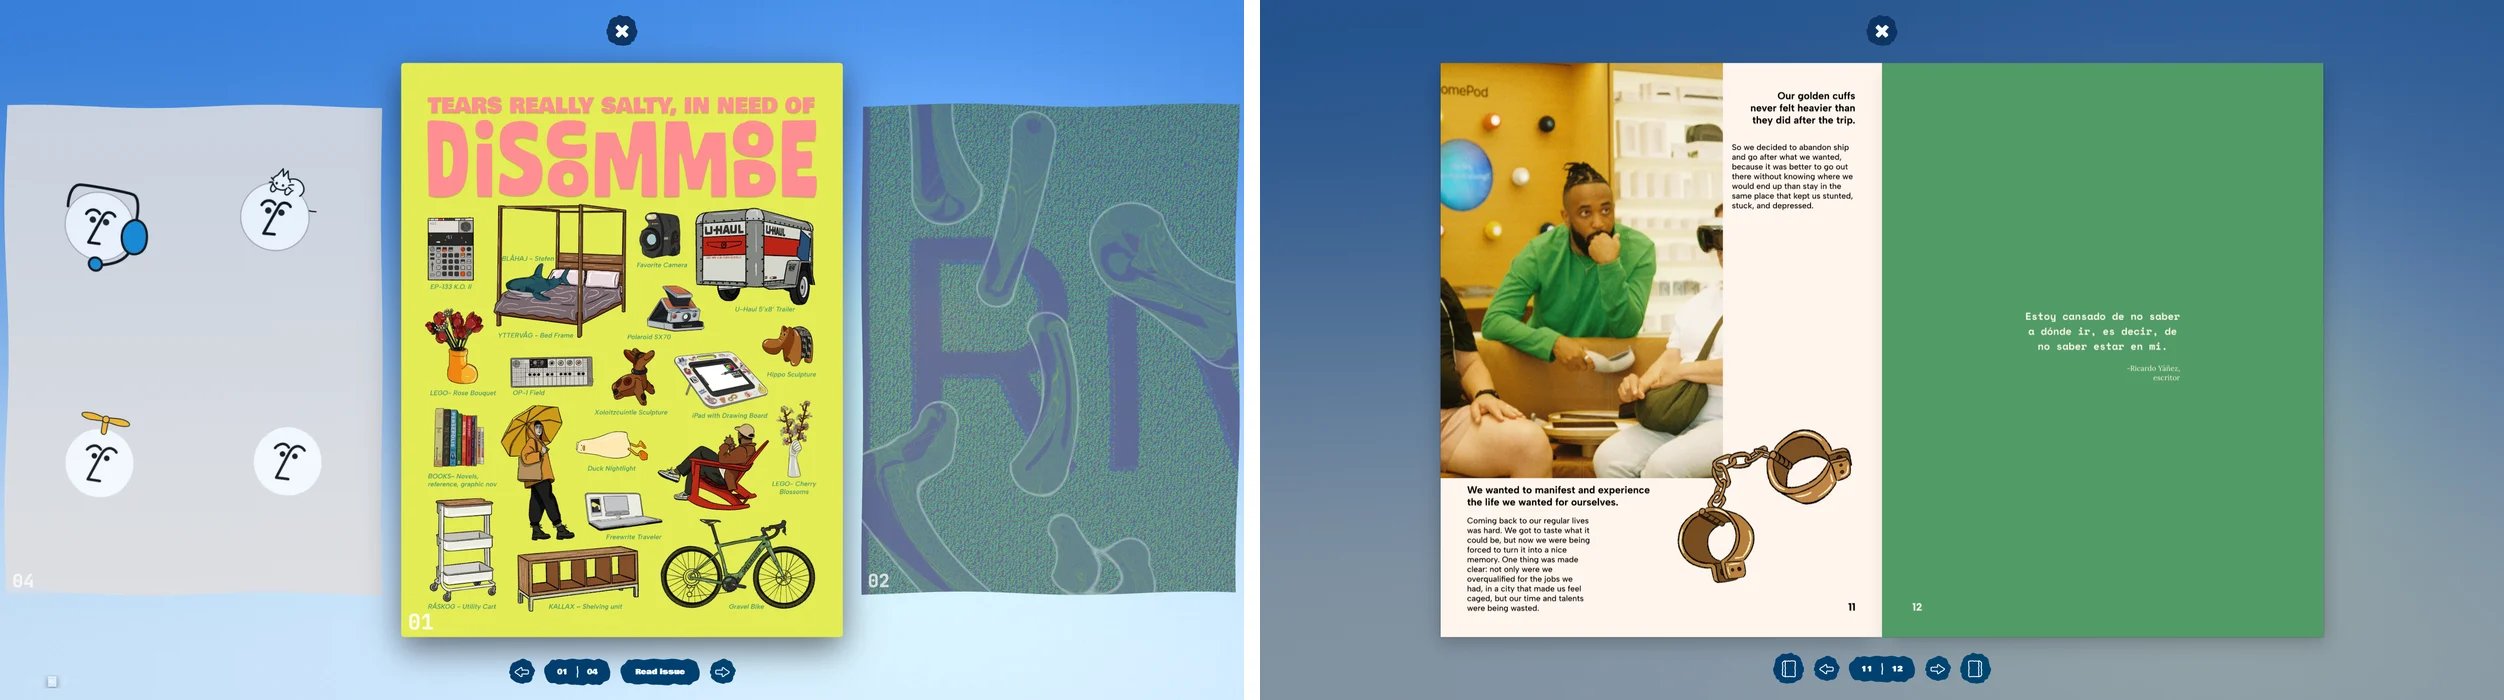
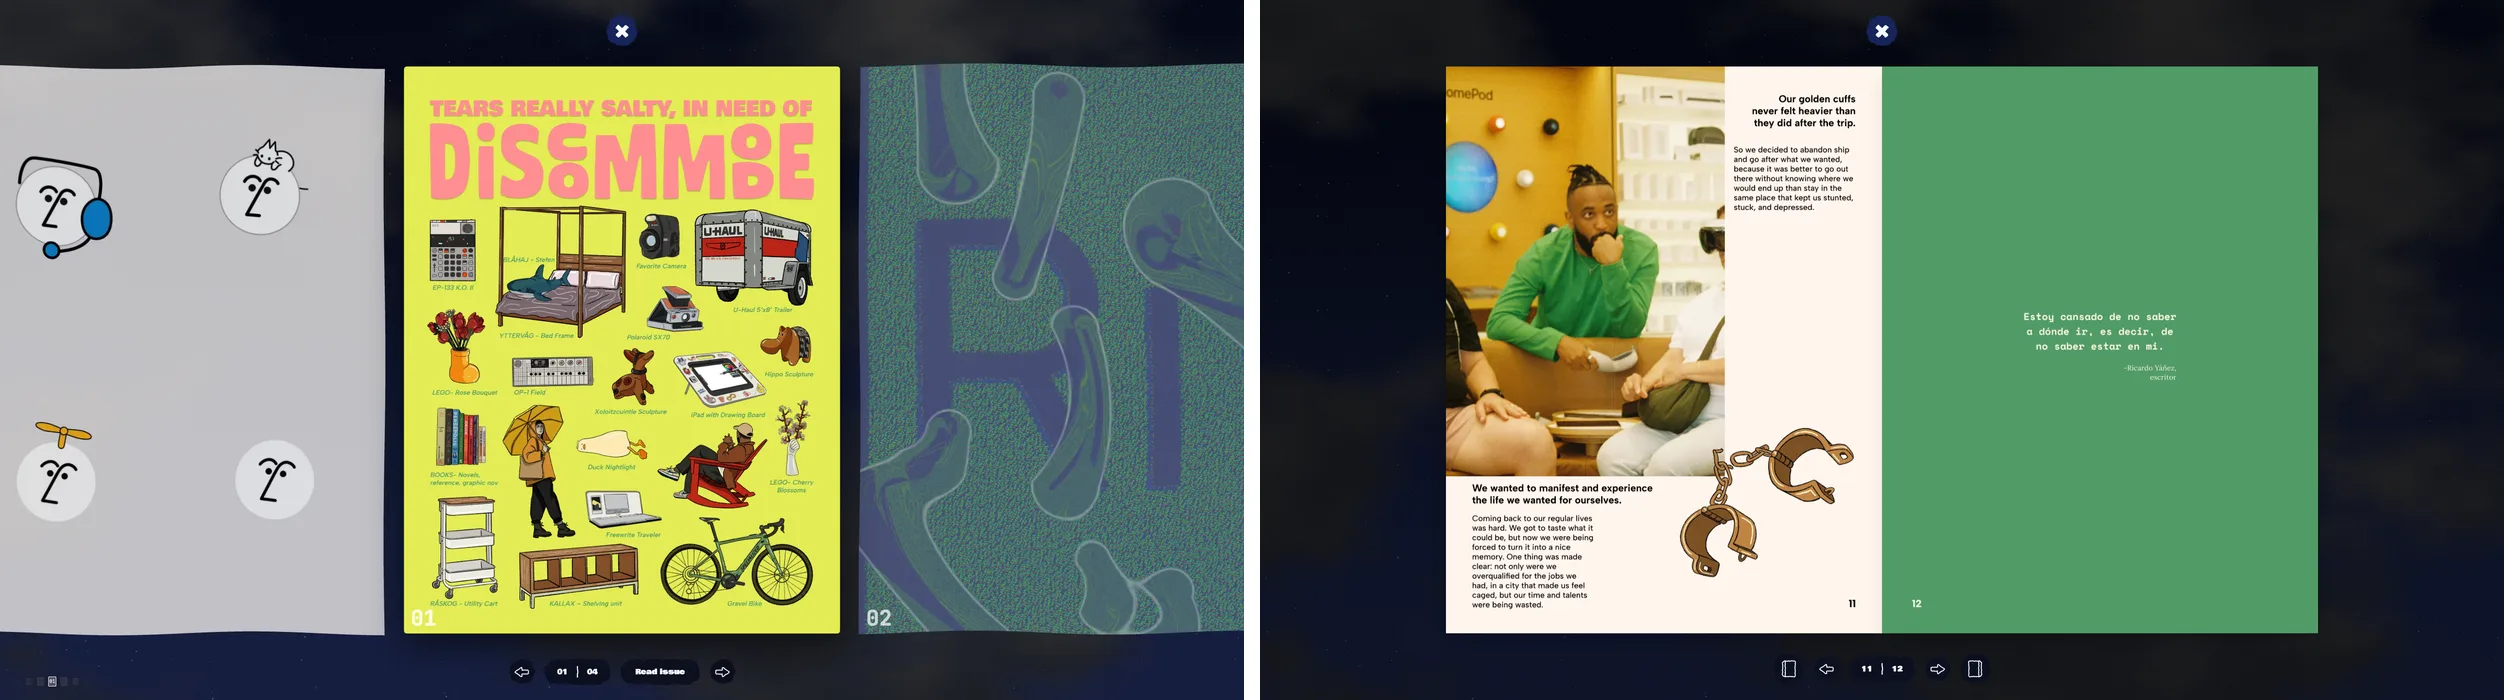
Detail view: bake the signed-off DETAIL defaults (cardScale 0.81, sideScale 1)
The DETAIL dials missed PR #40. Of the nine, two differed from the code:
detailCardScale 0.82 → 0.81 and detailSideScale 0.85 → 1 (the neighbours
at the hero's size). detailTransitionMs 450, detailSideOpacity 0.85,
detailGap 40, detailHoverDim 0.45, detailScrimOpacity 0.2,
detailChromeFadeMs 200 and detailSlideMs 420 already were.

detailCardScale sets the band: 1440 × (1 − 0.81) / 2 = 136.8 (was 129.6),
so the gaps are 43.8 (top, reader row) and 55.8 (detail row), the hero at
2560×1440 is 897.2 × 1166.4, and the neighbours sit 4.46% of its width
away. 1440×900 now falls just under the hero's 70% share, so its chrome
shrinks ×0.987 (above the 44px floor).

layout-checks' SPEC, hero.test.ts and the docs carry the new numbers;
verify:detail and verify:reader `layout` pass at all six viewports. New
side-by-sides in docs/chrome/. No DIAL_STATE_VERSION bump: no dial changed
meaning. verify:cover's dcache takes the hero's print within a pixel of
the hero (its own rounding: 1112×1446 for a 1111×1445 hero at 1728×996
@2× at 0.81; it was exact at 0.82).

verify:detail's identity and hand-off: two budgets re-baselined at the
measured value + 1 point, after --diff-dir maps (new) of every failing row,
main at the old dials beside the new: card 03 as a neighbour at scale 1,
8.2% → DREX_STILL_SIDE 9.2% (its dither's moiré, in the same places,
denser), and card 02's hero at 1728×996 @2×, 5.68% → LAVA_HERO 6.7% (the
[…]

diff --git a/src/layout/hero.test.ts b/src/layout/hero.test.ts
@@ -59,15 +59,18 @@ describe('computeHeroLayout: the book yields to the chrome', () => {
   it('is the signed-off layout at the reference, 2560×1440', () => {
     const l = computeHeroLayout(2560, 1440);
     expect(l.k).toBe(1);
-    expect(l.band).toBeCloseTo(129.6, 6);
+    expect(l.band).toBeCloseTo(136.8, 6);
     expect(l.rect.h).toBeCloseTo(1440 * config.detailCardScale, 6);
-    expect(l.rect.y).toBeCloseTo(129.6, 6);
+    expect(l.rect.h).toBeCloseTo(1166.4, 6);
+    expect(l.rect.y).toBeCloseTo(136.8, 6);
     expect(l.gap).toBeCloseTo(config.detailGap, 6);
     // The band less the margin and the tallest line (58): the gap to the book.
-    expect(l.sideGap).toBeCloseTo(129.6 - CHROME.chromeMargin - CHROME_LINE, 6);
+    expect(l.sideGap).toBeCloseTo(136.8 - CHROME.chromeMargin - CHROME_LINE, 6);
   });
 
-  it.each(VIEWPORTS.filter(([, vh]) => vh >= 900))('keeps the reference band in px at %ix%i', (vw, vh) => {
+  // 982 tall and up: at 900 the band (2 × 136.8) would leave the hero under
+  // its share, so the chrome shrinks there (below).
+  it.each(VIEWPORTS.filter(([, vh]) => vh >= 982))('keeps the reference band in px at %ix%i', (vw, vh) => {
     const l = computeHeroLayout(vw, vh);
     expect(l.k).toBe(1);
     expect(l.rect.y).toBeCloseTo(referenceBand(), 6);
@@ -92,6 +95,14 @@ describe('computeHeroLayout: the book yields to the chrome', () => {
     expect(l.rect.h / 720).toBeLessThan(HERO_MIN_SHARE);
   });
 
+  it('shrinks the chrome a little at 1440×900, above the floor', () => {
+    const l = computeHeroLayout(1440, 900);
+    expect(l.k).toBeCloseTo((0.3 * 900) / (2 * 136.8), 9);
+    expect(l.k).toBeGreaterThan(chromeFloor());
+    expect(l.k).toBeLessThan(1);
+    expect(l.rect.h / 900).toBeCloseTo(HERO_MIN_SHARE, 6);
+  });
+
   it('shrinks only as far as the share needs, between the floor and 1', () => {
     // Where the share binds above the floor: k from (1 − share)·vh = 2·band·k.
     const band = referenceBand();
@@ -108,6 +119,8 @@ describe('computeHeroLayout: the book yields to the chrome', () => {
   });
 
   it('follows detailCardScale: the reference band is the dial', () => {
+    expect(referenceBand()).toBeCloseTo(136.8, 6);
+    expect(referenceBand(0.81)).toBeCloseTo(136.8, 6);
     expect(referenceBand(0.82)).toBeCloseTo(129.6, 6);
     expect(referenceBand(0.9)).toBeCloseTo(72, 6);
   });

diff --git a/src/layout/hero.ts b/src/layout/hero.ts
@@ -8,7 +8,7 @@
  * THE BOOK YIELDS TO THE CHROME. The spacing is the Studio Display's (2560×1440),
  * where it was signed off: there the hero is `detailCardScale` of the height
  * and the band over it and under it — margin, chrome, gap — is
- * `REF_VH · (1 − detailCardScale) / 2` (129.6 at 0.82). That band is reserved
+ * `REF_VH · (1 − detailCardScale) / 2` (136.8 at 0.81). That band is reserved
  * FIRST, in px, on every screen; the hero (10:13) takes the height that is left,
  * and the open book (two pages) the width. So the chrome and the gaps between
  * it and the book are the same everywhere and the book is what shrinks.

diff --git a/src/config.ts b/src/config.ts
@@ -284,8 +284,8 @@ export const DEFAULTS: LiveConfig = {
   hoverLiftOpacity: 0.9,
   miniMapSpan: 3,
   detailTransitionMs: 450,
-  detailCardScale: 0.82,
-  detailSideScale: 0.85,
+  detailCardScale: 0.81,
+  detailSideScale: 1,
   detailSideOpacity: 0.85,
   detailGap: 40,
   detailHoverDim: 0.45,

diff --git a/docs/reader.md b/docs/reader.md
@@ -538,7 +538,7 @@ this change (the base of each shape; the scallops in brackets):
 | row | 46 (arrows, pills) | 58 (book icons) |
 | hero → each neighbour | 40.0 = 4.40% of the hero's 908.3 | — |
 
-Each band, margin + line + gap, is **129.6** = 1440 × (1 − 0.82) / 2. The old
+Each band, margin + line + gap, was **129.6** = 1440 × (1 − 0.82) / 2. The old
 rule made the hero 0.82 of ANY viewport's height, so on a shorter screen the
 band shrank with it while the chrome did not: at 1728×1117 the band was 100.5,
 the gaps 19.5, and the reader's row sat **7.5px** under the book (3.7 to its
@@ -553,7 +553,7 @@ tested in `hero.test.ts`):
    still the dial; it now means the hero's share of the height at 1440 tall.
 2. **The hero (10:13) takes the height that is left**, and the open book (two
    pages) must fit the width inside a side gap each side: the band's gap to
-   the tallest line, 36.6. No listed screen is narrow enough for that to bind.
+   the tallest line, 43.8. No listed screen is narrow enough for that to bind.
 3. **Only a short screen shrinks the chrome**: where the hero would get less
    than `HERO_MIN_SHARE` (0.7) of the height, the WHOLE band — margin, chrome,
    gaps, the row's spacing — scales by one `k`, so the proportions stay the
@@ -562,24 +562,34 @@ tested in `hero.test.ts`):
    `useChromeFit` writes `k` on both lines (`--chrome-fit`,
    `--chrome-line-margin`).
 4. **The neighbours keep the ratio**: their gap is `detailGap` × the hero's
-   height over the reference hero's, so 4.40% of the hero's width everywhere.
+   height over the reference hero's, so 4.46% of the hero's width everywhere
+   (4.40% at 0.82).
 
 The detail panel, the grid → detail morph, the doorway and the reader's cover
 slot all read the one layout, so none of them can drift from the others.
 
+**The signed-off dials** (baked 2026-10-01, after the change above landed at
+0.82): `detailCardScale` **0.81** and `detailSideScale` **1** (the
+neighbours at the hero's size); `detailTransitionMs` 450, `detailSideOpacity`
+0.85, `detailGap` 40, `detailHoverDim` 0.45, `detailScrimOpacity` 0.2,
+`detailChromeFadeMs` 200 and `detailSlideMs` 420 as they were. At 0.81 the
+band is **136.8** = 1440 × (1 − 0.81) / 2, and the hero at 2560×1440 is
+897.2 × 1166.4.
+
 With the close X at its drawn 58, the top gap is the band less 35 and 58:
-**36.6**, the reader row's gap, and the hero at 2560×1440 did not move. The
-detail row is 46, so its gap reads 48.6 as it did. Measured 2026-10-01
+**43.8**, the reader row's gap too. The detail row is 46, so its gap reads
+55.8. 1440×900 now falls just under the share at k = 1, so its chrome shrinks
+a little (×0.987, above the floor). Measured 2026-10-01 at 0.81
 (`verify:detail` and `verify:reader`, `layout`):
 
 | | hero (h, share) | k | top gap | row gap, reader / detail | neighbour gap |
 | --- | --- | --- | --- | --- | --- |
-| 2560×1440 | 1180.8, 0.82 | 1 | 36.6 | 36.6 / 48.6 | 40.0 |
-| 1920×1080 | 820.8, 0.76 (was 885.6) | 1 | 36.6 | 36.6 / 48.6 | 27.8 |
-| 1728×1117 | 857.8, 0.77 (was 915.9) | 1 | 36.6 | 36.6 / 48.6 | 29.1 |
-| 1512×982 | 722.8, 0.74 (was 805.2) | 1 | 36.6 | 36.6 / 48.6 | 24.5 |
-| 1440×900 | 640.8, 0.71 (was 738.0) | 1 | 36.6 | 36.6 / 48.6 | 21.7 |
-| 1280×720 | 472.1, 0.66 | 0.957 (floor) | 35.0 | 35.0 / 46.5 | 16.0 |
+| 2560×1440 | 1166.4, 0.81 | 1 | 43.8 | 43.8 / 55.8 | 40.0 |
+| 1920×1080 | 806.4, 0.75 | 1 | 43.8 | 43.8 / 55.8 | 27.7 |
+| 1728×1117 | 843.4, 0.76 | 1 | 43.8 | 43.8 / 55.8 | 28.9 |
+| 1512×982 | 708.4, 0.72 | 1 | 43.8 | 43.8 / 55.8 | 24.3 |
+| 1440×900 | 630.0, 0.70 | 0.987 | 43.2 | 43.2 / 55.1 | 21.6 |
+| 1280×720 | 458.3, 0.64 | 0.957 (floor) | 41.9 | 41.9 / 53.4 | 15.7 |
 
 Captures: `docs/chrome/layout-2560x1440.webp` and `layout-1728x1117.webp`, the
 detail view beside the reader at 11 | 12, 1×, the dev overlays hidden.
@@ -594,7 +604,7 @@ viewports — the reader at the cover, 07 | 08 and the back — that the margins
 the chrome's sizes and the gaps are the 2560×1440 numbers to ±2px (× k where
 the chrome shrank), that both lines carry that k, that no paper (the scallops
 included) is over the hero or book, the open book inside the side gaps, every
-face ≥ 44px and every hit area ≥ 44×44, and the neighbours at 4.40%. The
+face ≥ 44px and every hit area ≥ 44×44, and the neighbours at 4.46%. The
 numbers are written into the check, not read back from the code it checks. It
 saves a screenshot per viewport to `.context/layout/` (`--shots` for another
 place).

diff --git a/docs/covers.md b/docs/covers.md
@@ -1306,6 +1306,15 @@ has two budgets of its own, documented in the script:
 | --- | --- | --- | --- |
 | hero | 0.000–0.004%; **1.92%** at 1728×996 @2× on #0d1220 (3.04% on #425EB6; 2.1–2.2% before 2026-10-01) | 3.5% (2.5% before) | the hero box is 628.2 × 816.7 CSS px there, so neither the DOM canvas nor the plane's texture lands on whole device pixels; two resamplers move a field of noise by a fraction of a pixel. The diff grows steadily toward the bottom-right: a 0.4px scale drift, not a clock or a colour. On the opaque navy ground the same drift puts more of the dot field past 32 levels: 3.04% every run, `main` 2.11% (the same script and machine), in the same pattern, no blob drawn apart |
 | as a neighbour (the still) | 1.0–5.0% | 7% (card 01's) | Chrome's scale(0.85) resampling of the `<img>` against a texture resized to the card — card 01's documented problem, on pure noise |
+| hero, since `detailCardScale` 0.81 | **5.68%** at 1728×996 @2×, every run; 0.00–0.06% elsewhere | 6.7% (`LAVA_HERO`) | the hero box is 555.7 × 722.4 CSS px there: the same drift over the dot field. The diff map is speckle and nothing else (best whole-pixel shift 1px, σ1 blur 0.37%, largest connected difference 44 px) |
+
+Card 03 as a neighbour since `detailSideScale` 1 (the neighbours at the hero's
+size): **1.1–8.2%**, held to 9.2% (`DREX_STILL_SIDE`); card 02's neighbour and
+card 03's hero keep 7% and 3.5%. Both were re-baselined on 2026-10-01 at the
+measured value + 1 point, after `verify:detail --diff-dir` maps of every
+failing row, `main` at the old dials beside the new: resampling drift only —
+card 03's dither moiré in the same places, denser; no shape out of place, no
+shift over 1px.
 
 Card 04, the same way: as the hero **0.149–0.434%**, the spec's 0.5% (the DOM
 face and the plane show one canvas; the suite waits for the live hero — until

diff --git a/docs/detail-paper.md b/docs/detail-paper.md
@@ -345,10 +345,10 @@ over, "Back to the grid"). It does what that did: Escape, and the same exit.
 
 **The hero card yields to the chrome**, as the reader's book does
 ([the book yields to the chrome](reader.md#the-book-yields-to-the-chrome)): the
-band over and under the card is the Studio Display's 129.6px on every screen,
-reserved before the card is sized, so the gaps are 36.6 (the X to the card)
-and 48.6 (the card to this 46-tall row) everywhere, and the card is what
-shrinks. The neighbours sit 4.40% of the hero's width from it (`detailGap` is
+band over and under the card is the Studio Display's 136.8px on every screen
+(`detailCardScale` 0.81), reserved before the card is sized, so the gaps are
+43.8 (the X to the card) and 55.8 (the card to this 46-tall row) everywhere,
+and the card is what shrinks. The neighbours sit 4.46% of the hero's width from it (`detailGap` is
 the gap at the reference). Only under 70% of the height for the hero does the
 chrome shrink, everything × one k, to the 44px face floor (×0.957).
 

diff --git a/README.md b/README.md
@@ -242,8 +242,8 @@ down-swipe also dismiss.
 **Layout — a true 3-card view** ([`src/detailLayout.ts`](src/detailLayout.ts),
 pure + unit-tested): the active card sits large in the middle —
 `detailCardScale` of the viewport height (3:4 preserved, capped) — flanked by the
-previous/next cards at `detailSideScale` of the centre (default 0.85, clearly
-readable, not edge slivers), separated by `detailGap`, all centred as a group.
+previous/next cards at `detailSideScale` of the centre (default 1: the
+neighbours at the hero's size), separated by `detailGap`, all centred as a group.
 Every panel renders at the centre size and is scaled down to `detailSideScale`
 for the sides **imperatively per frame** from the continuous slide position, so
 the slide interpolates the scale/opacity smoothly with no pop at the crossover;
